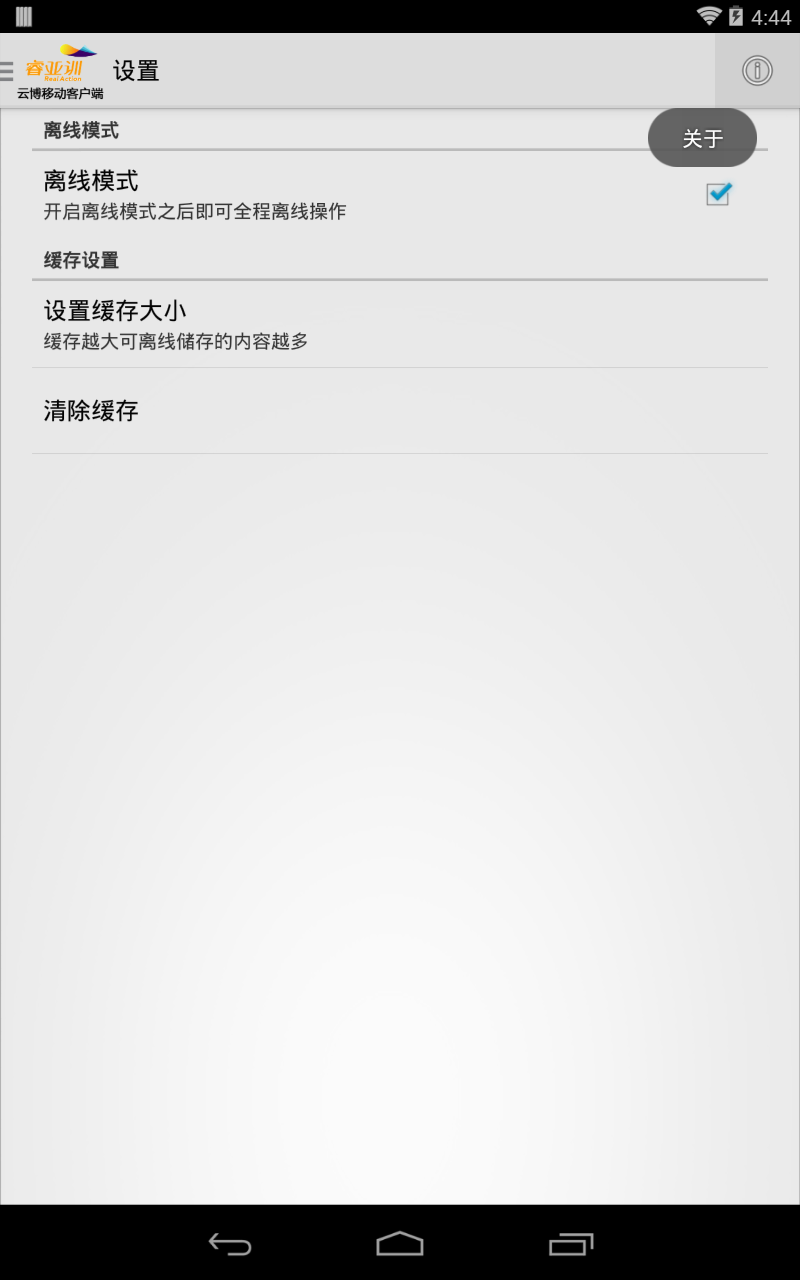
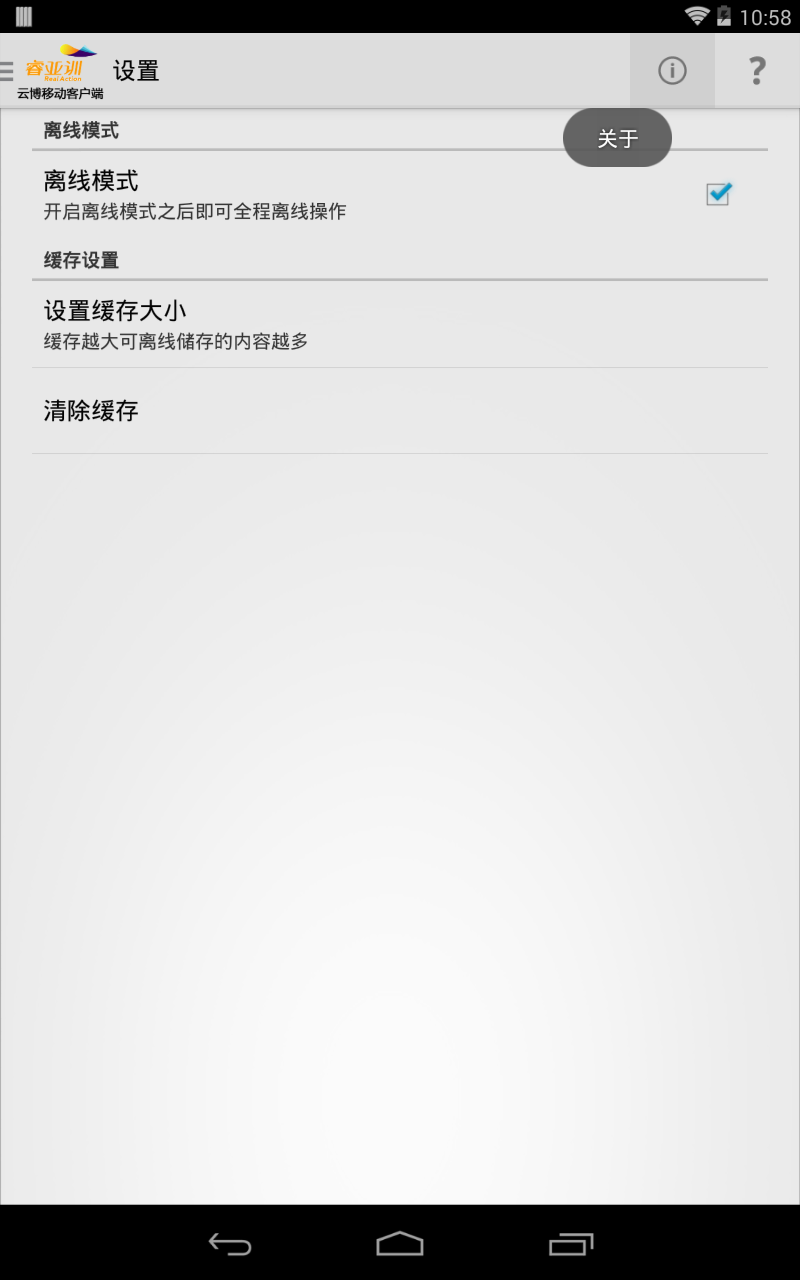
帮助文档更新

Changed region(s): [[0.6875, 0.0312, 0.9688, 0.1562], [0.8438, 0.0, 1.0, 0.0625]]

diff --git a/assets/help/help.md b/assets/help/help.md
@@ -32,17 +32,20 @@
 
 ![5.png](5.png)
 
+####我的课程####
 通过滑动屏幕调出菜单，点击“我的课程”按钮即可进入课程列表界面
 
 ![6.png](6.png)
 ![7.png](7.png)
 ![8.png](8.png)
 
+####案例列表####
 点击某一门课程，即可进入课程案例列表界面
 
 ![9.png](9.png)
 ![10.png](10.png)
 
+####案例详细信息####
 案例列表点击某一个案例之后会进入到案例资源详细信息界面
 
 ![11.png](11.png)
@@ -53,6 +56,7 @@
 ![13.png](13.png)
 ![14.png](14.png)
 
+####资源查看####
 指导书或答案界面以列表的形式展示教学资源，如果是目录则点击之后会进入目录，如果是可查看的资源则点击之后会在新界面显示该资源，点击列表最上方蓝色背景的返回按钮可以返回上层目录
 
 ![15.png](15.png)
@@ -65,10 +69,12 @@
 ![19.png](19.png)
 ![20.png](20.png)
 
+####返回上一界面####
 在各个界面点击左上角的Logo即可返回上一个界面，功能同Back键
 
 ![21.png](21.png)
 
+####设置####
 切换至“设置”界面
 
 ![22.png](22.png)
@@ -84,11 +90,18 @@
 ![26.png](26.png)
 ![27.png](27.png)
 
+####关于####
 “关于”菜单按钮，点击确定按钮可以打开浏览器跳转到云博介绍页面
 
 ![28.png](28.png)
 ![29.png](29.png)
 
+####帮助####
+“帮助”菜单按钮，点击之后跳转到云博移动客户端使用帮助文档界面
+![31.png](31.png)
+![32.png](32.png)
+
+####退出####
 退出提示对话框
 
 ![30.png](30.png)
